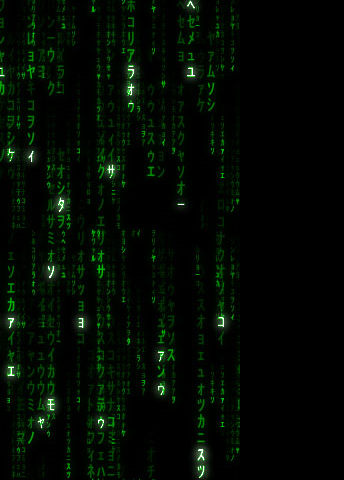
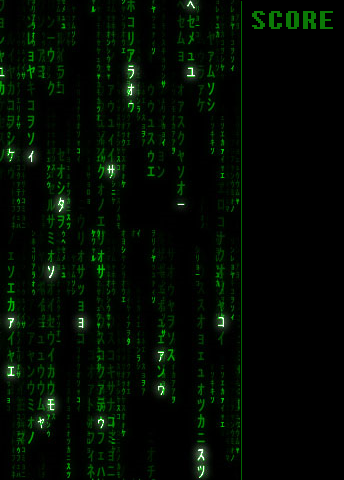
fixed matrix skin

Changed region(s): [[0.7267, 0.0, 0.9593, 0.0625]]

diff --git a/app/modules/game.py b/app/modules/game.py
@@ -7,8 +7,8 @@ from .controls_handler import ControlEventType, ControlsHandler, Commands
 from .abstract_ui import AbstractGUI
 from .logger import logger
 
-TICK_INTERVAL = 0.68
-LEVEL_MULTIPLIER = 0.9
+TICK_INTERVAL = 0.8
+LEVEL_DECREASE = 0.025
 
 # Default field parameters
 FIELD_HIDDEN_TOP_ROWS_NUMBER = 4
@@ -74,7 +74,8 @@ class Game:
             # We got full row here
             elif event.event_type == FieldEventType.ROW_REMOVED:
                 self.gui.sounds.row_delete.play()
-                self._current_tick *= LEVEL_MULTIPLIER
+                self._current_tick = self._current_tick \
+                    if self._current_tick <= LEVEL_DECREASE else self._current_tick - LEVEL_DECREASE
                 if not self._forcing_speed:
                     self.tick_thread.set_tick(self._current_tick)
                 self._score += 10

diff --git a/app/tk_app.py b/app/tk_app.py
@@ -14,12 +14,11 @@ from modules.figures import Point
 from modules.logger import logger
 from modules.resources import SoundResources, get_resources_path
 
-VERSION = '1.1d'
-
-COLOR_BACKGROUND = "#000000"
+VERSION = '1.2d'
 
 
 class Skin:
+    """Loads skin image and sound resources from files"""
     def __init__(self, name: str):
         self.sounds = SoundResources(name)  # Audio
 
@@ -91,7 +90,7 @@ class TkTetrisGUI(tk.Tk, abstract_ui.AbstractGUI):
     def new_game(self):
         logger.info('Starting new game')
 
-    def _load_skin(self, skin_name='Default'):
+    def _load_skin(self, skin_name='Matrix'):
         """
         Loads gfx and sounds from resources and applies them
         """
